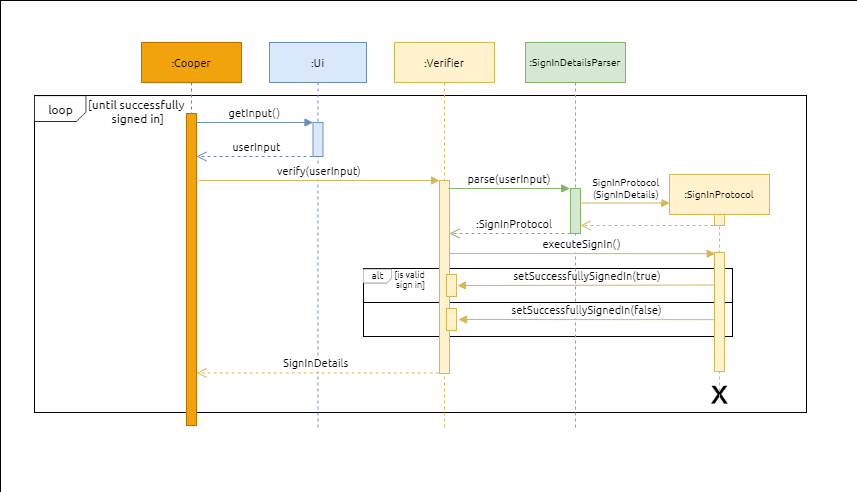
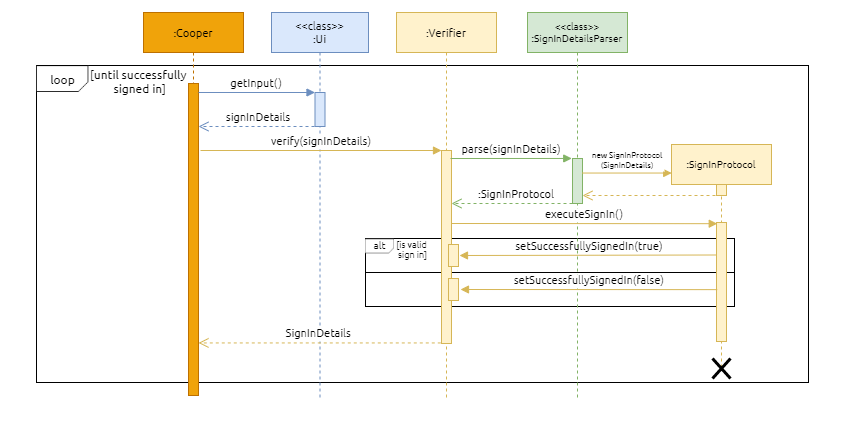
Add content for DG

diff --git a/docs/DeveloperGuide.md b/docs/DeveloperGuide.md
@@ -16,7 +16,7 @@ This developer guide will be your reference manual if you are looking to:
 
 ## What's in this Developer Guide
 - [Acknowledgements](#Acknowledgements)
-- [Setting Up andGetting Started](#setting-up-and-getting-started)
+- [Setting Up and Getting Started](#setting-up-and-getting-started)
   - [Setting up cOOPer on your computer](#setting-up-cooper-on-your-computer)
   - [Before you code](#before-you-code)
 - [Design](#design)
@@ -40,26 +40,8 @@ This developer guide will be your reference manual if you are looking to:
 own documentation [here](https://www.jetbrains.com/help/idea/sdk.html#set-up-jdk) to correctly configure the JDK.
 3. Import the project as a Gradle project. You can follow [this guide](https://se-education.org/guides/tutorials/intellijImportGradleProject.html) to find out how to import the project into IntelliJ.
 4. Verify the setup by:
-   1. Running `cooper.Cooper` and entering a few commands. You should be greeted by the following command prompt.
-   
-      ```bash
-                  /$$$$$$   /$$$$$$  /$$$$$$$
-                 /$$__  $$ /$$__  $$| $$__  $$
-        /$$$$$$$| $$  \ $$| $$  \ $$| $$  \ $$ /$$$$$$   /$$$$$$
-       /$$_____/| $$  | $$| $$  | $$| $$$$$$$//$$__  $$ /$$__  $$
-      | $$      | $$  | $$| $$  | $$| $$____/| $$$$$$$$| $$  \__/
-      | $$      | $$  | $$| $$  | $$| $$     | $$_____/| $$
-      |  $$$$$$$|  $$$$$$/|  $$$$$$/| $$     |  $$$$$$$| $$
-       \_______/ \______/  \______/ |__/      \_______/|__/
-      ======================================================================
-      Login or register to gain access to my features!
-      To login, enter "login  [yourUsername] pw [password] as [yourRole]"
-      To register, enter "register [yourUsername] pw [password] as [yourRole]"
-      =========================================================================
-      >>
-      ```
-   
-   2. Running `junit` tests to ensure they all pass.
+   1. Running `cooper.Cooper`, logging in and entering a few commands.   
+   2. Running `JUnit` tests in `src/test` to ensure they all pass.
 
 ### Before you code
 - **Configure coding style**
@@ -70,13 +52,31 @@ own documentation [here](https://www.jetbrains.com/help/idea/sdk.html#set-up-jdk
 - **Get to know cOOPer's design**
   - One last thing to know before you start coding is cOOPer's overall software design. You are recommended to get some sense of cOOPer's overall design in the [Design](#design) section below.
 
-## Design 
+## Design
+
+> #### 💡 Tip:
+> The diagrams in this document were created using **draw.io**. The `.drawio` templates used to create the diagrams
+> can be found in the `diagrams` folder. To create and edit diagrams, access the draw.io [website](https://app.diagrams.net/),
+> select 'Open Existing Diagram' and open the `.drawio` file.
+
+### Overview
+
+cOOPer consists of two main layers: **verification** layer and **features** layer as shown in the diagram below.
+cOOPer recognizes different sets of inputs at each layer.
+
+![layerDiagram](developerGuideImages/layerDiagram.png)
+
+Upon launching the app, the user starts at the **verification**
+layer where they can only [log in](UserGuide.md#3-login) or [register](UserGuide.md#22-user-registration). Entering valid
+sign in details will then grant the user access to the **features** layer where they can input commands like `cf` and
+`available` to use cOOPer's features. At this layer, entering the `logout` command will bring the user back to the
+verification layer.
 
 ### Architecture
 
 ![architectureDiagram](developerGuideImages/architectureDiagram.png)
 
-The **Architecture Diagram** above shows the high-level design of cOOPer.
+The **Architecture Diagram** above shows the high-level design of cOOPer and how cOOPer's components are connected.
 
 `Cooper` contains the *main* method of the program. `Cooper`'s responsibilities are as such:
 - Upon **launching the app**, `Cooper` initializes the components and loads stored user data into the components. 
@@ -84,16 +84,13 @@ The **Architecture Diagram** above shows the high-level design of cOOPer.
 a result.
 - Upon **shutting down the app**, `Cooper` saves any unsaved user data to the hard disk and shuts down the components. 
 
-Apart from `Cooper` the rest of the app consists of these nine components:
-- `Ui`: Handles the reading of user input and printing of messages to the terminal.
-- `Parser`: Interprets and validates user input.
-- `Verification`: Verifies that the user is signing in to the system with the correct credentials.
-- `Command`: Executes commands which are parsed from user input.
-- `Finance`: Handles finance-related data and operations of the app.
-- `Meetings`: Handles data and operations of the app needed for scheduling meetings among users.
-- `Forum`: Handles posts and comments created by users in the forum.
-- `Resources`: Managers all resources such as `FinanceManager`, `MeetingsManager` and `ForumManager` and their related access rights based on user roles.
-- `Storage`: Loads data from, and saves data to storage files in the computer hard disk.
+Apart from `Cooper`, the rest of the app consists of these six components:
+- [`Ui`](#ui-component): Handles the reading of user input and printing of messages to the terminal.
+- [`Parser`](#parser-component): Interprets and validates user input.
+- [`Verification`](#verification-component): Verifies that the user is signing in to the system with the correct credentials.
+- [`Command`](#command-component): Executes commands which are parsed from user input.
+- [`Resources`](#resources-component): Manages cOOPer's resources which store data for cOOPer's finance, meetings and forum features.
+- [`Storage`](#storage-component): Loads data from, and saves data to storage files in the computer hard disk.
 
 #### Interaction of the architecture components to process user input
 1. The *sequence diagram* below shows how cOOPer's components interact with each other when a user enters their **sign in 
@@ -112,6 +109,20 @@ successfully logging in.
 > `userInput` represents a command input by the user. For example, `meetings`.
 
 ![commandSequenceDiagram](developerGuideImages/commandSequenceDiagram.png)
+
+### Ui Component
+
+### Parser Component
+
+### Verification Component
+
+![verificationClassDiagram](developerGuideImages/verificationClassDiagram.png)
+
+### Command Component
+
+### Resources Component
+
+### Storage Component
 
 ## Implementation
 
